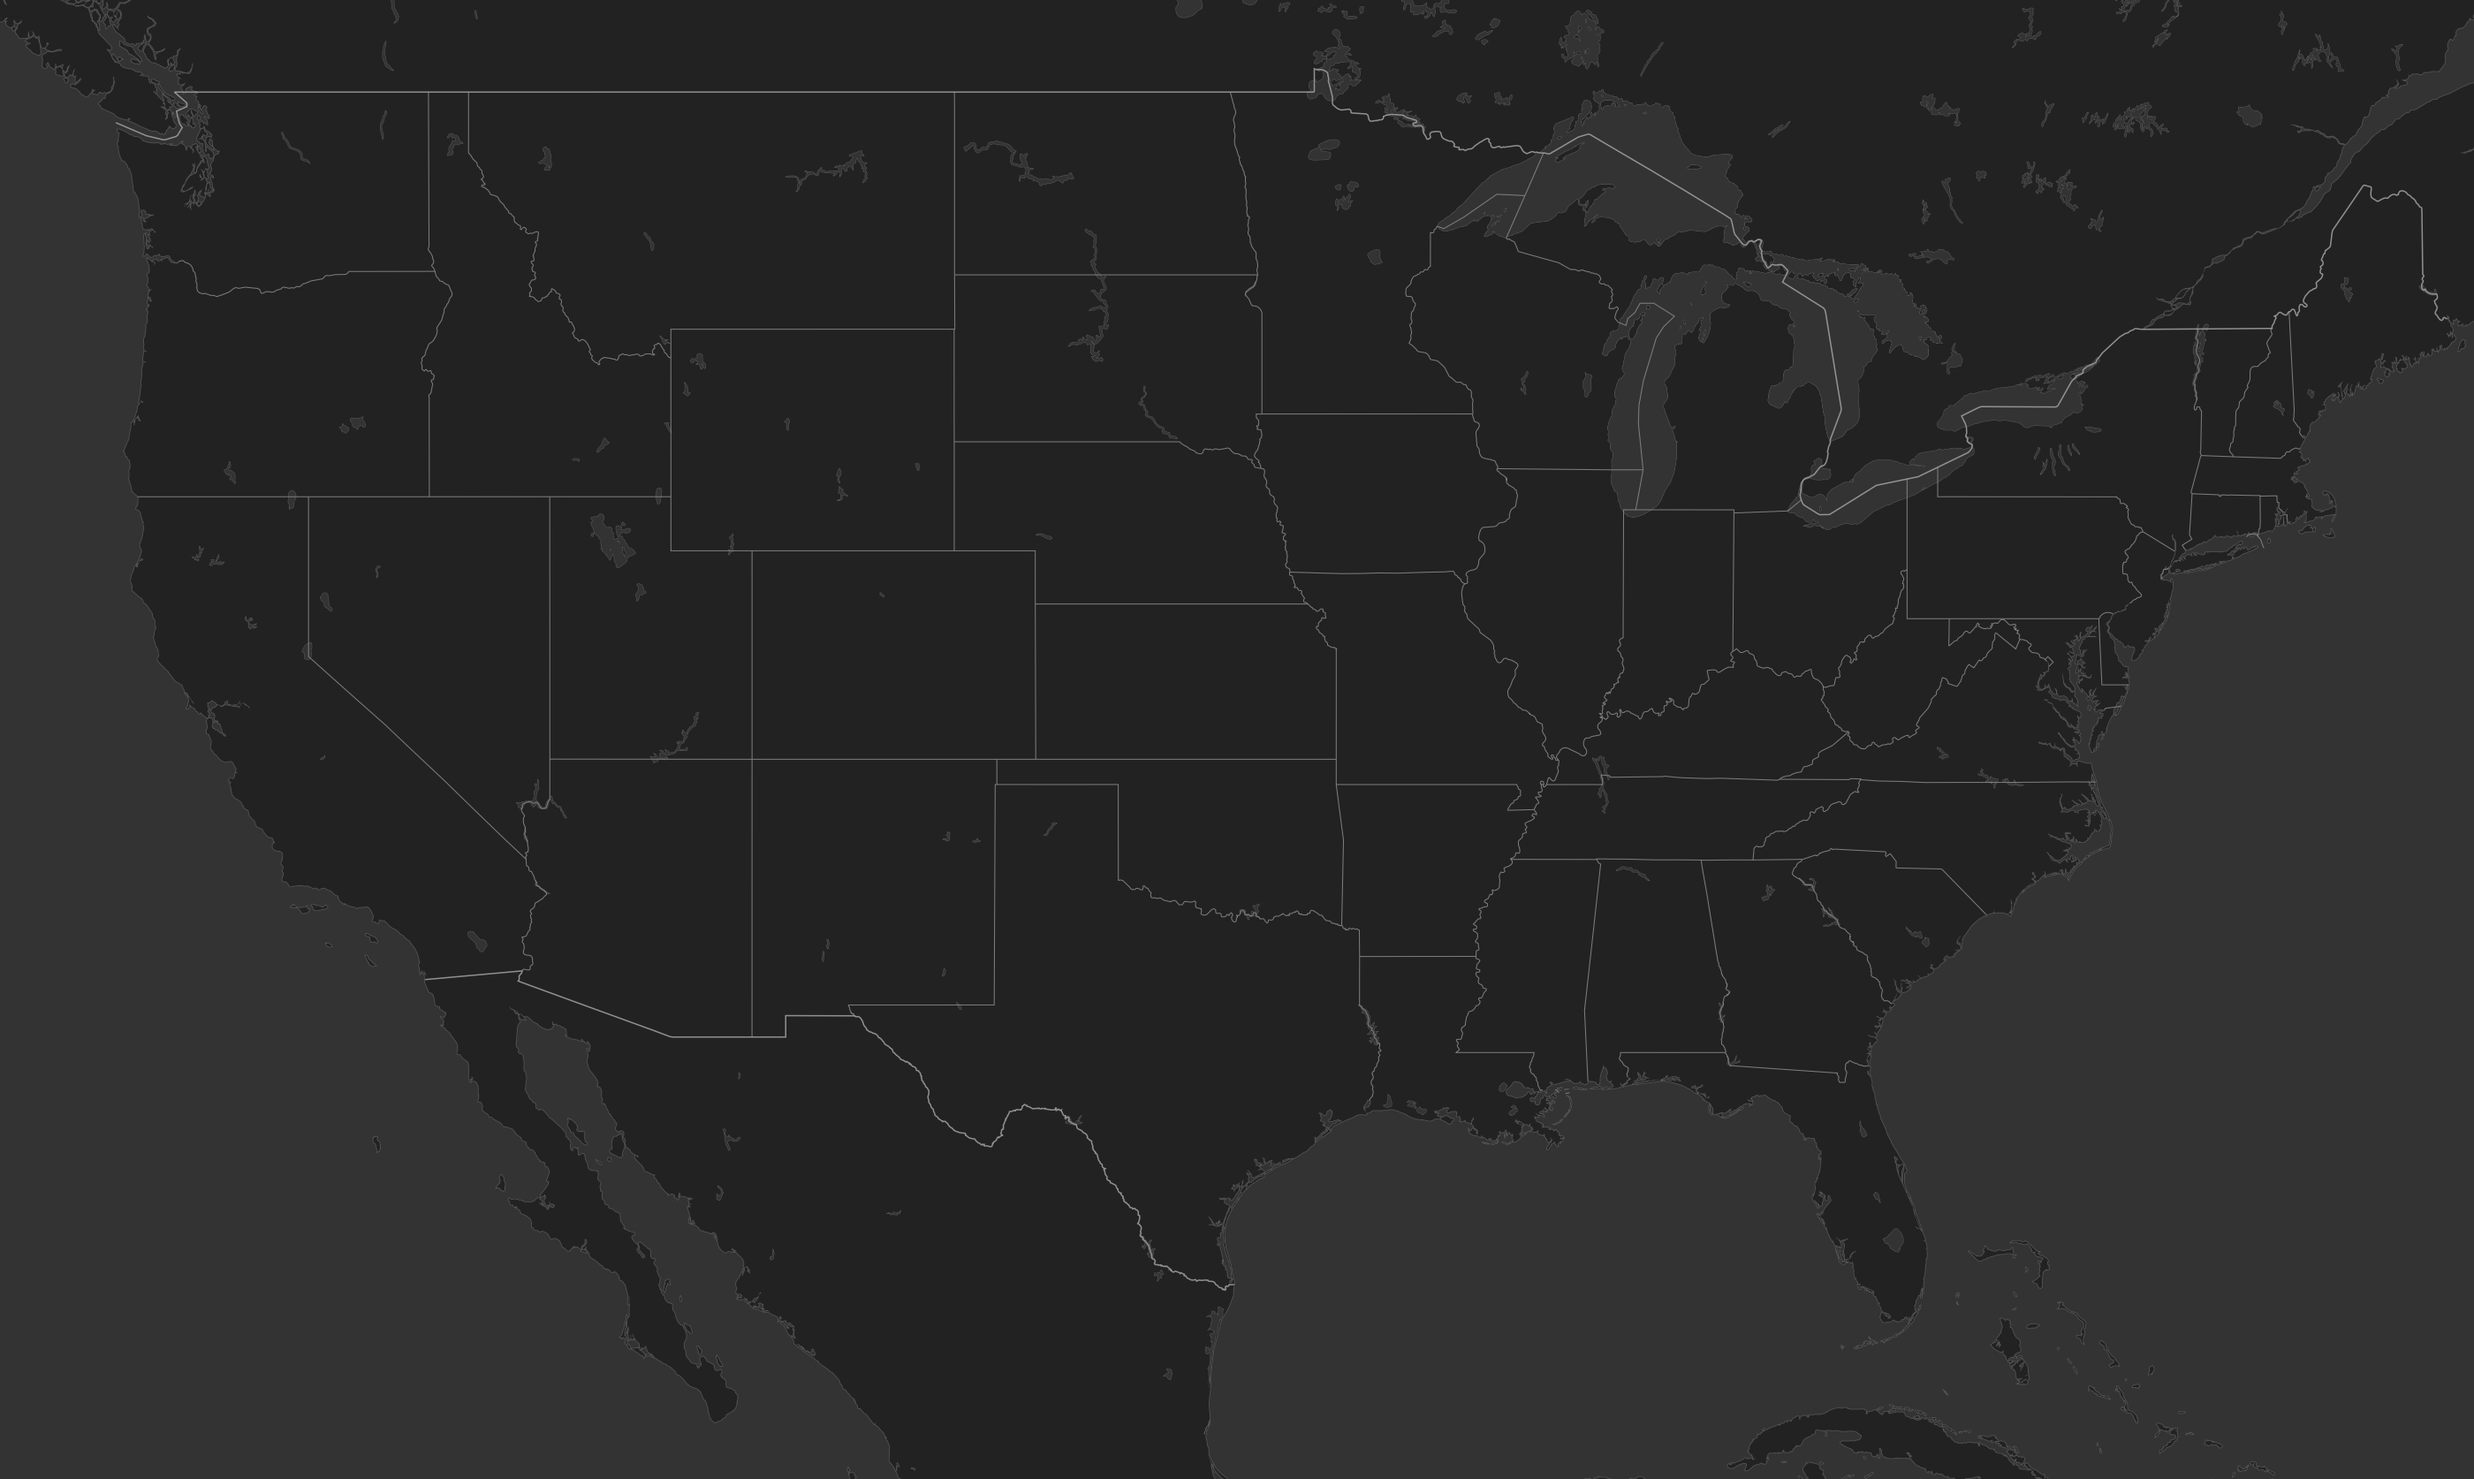
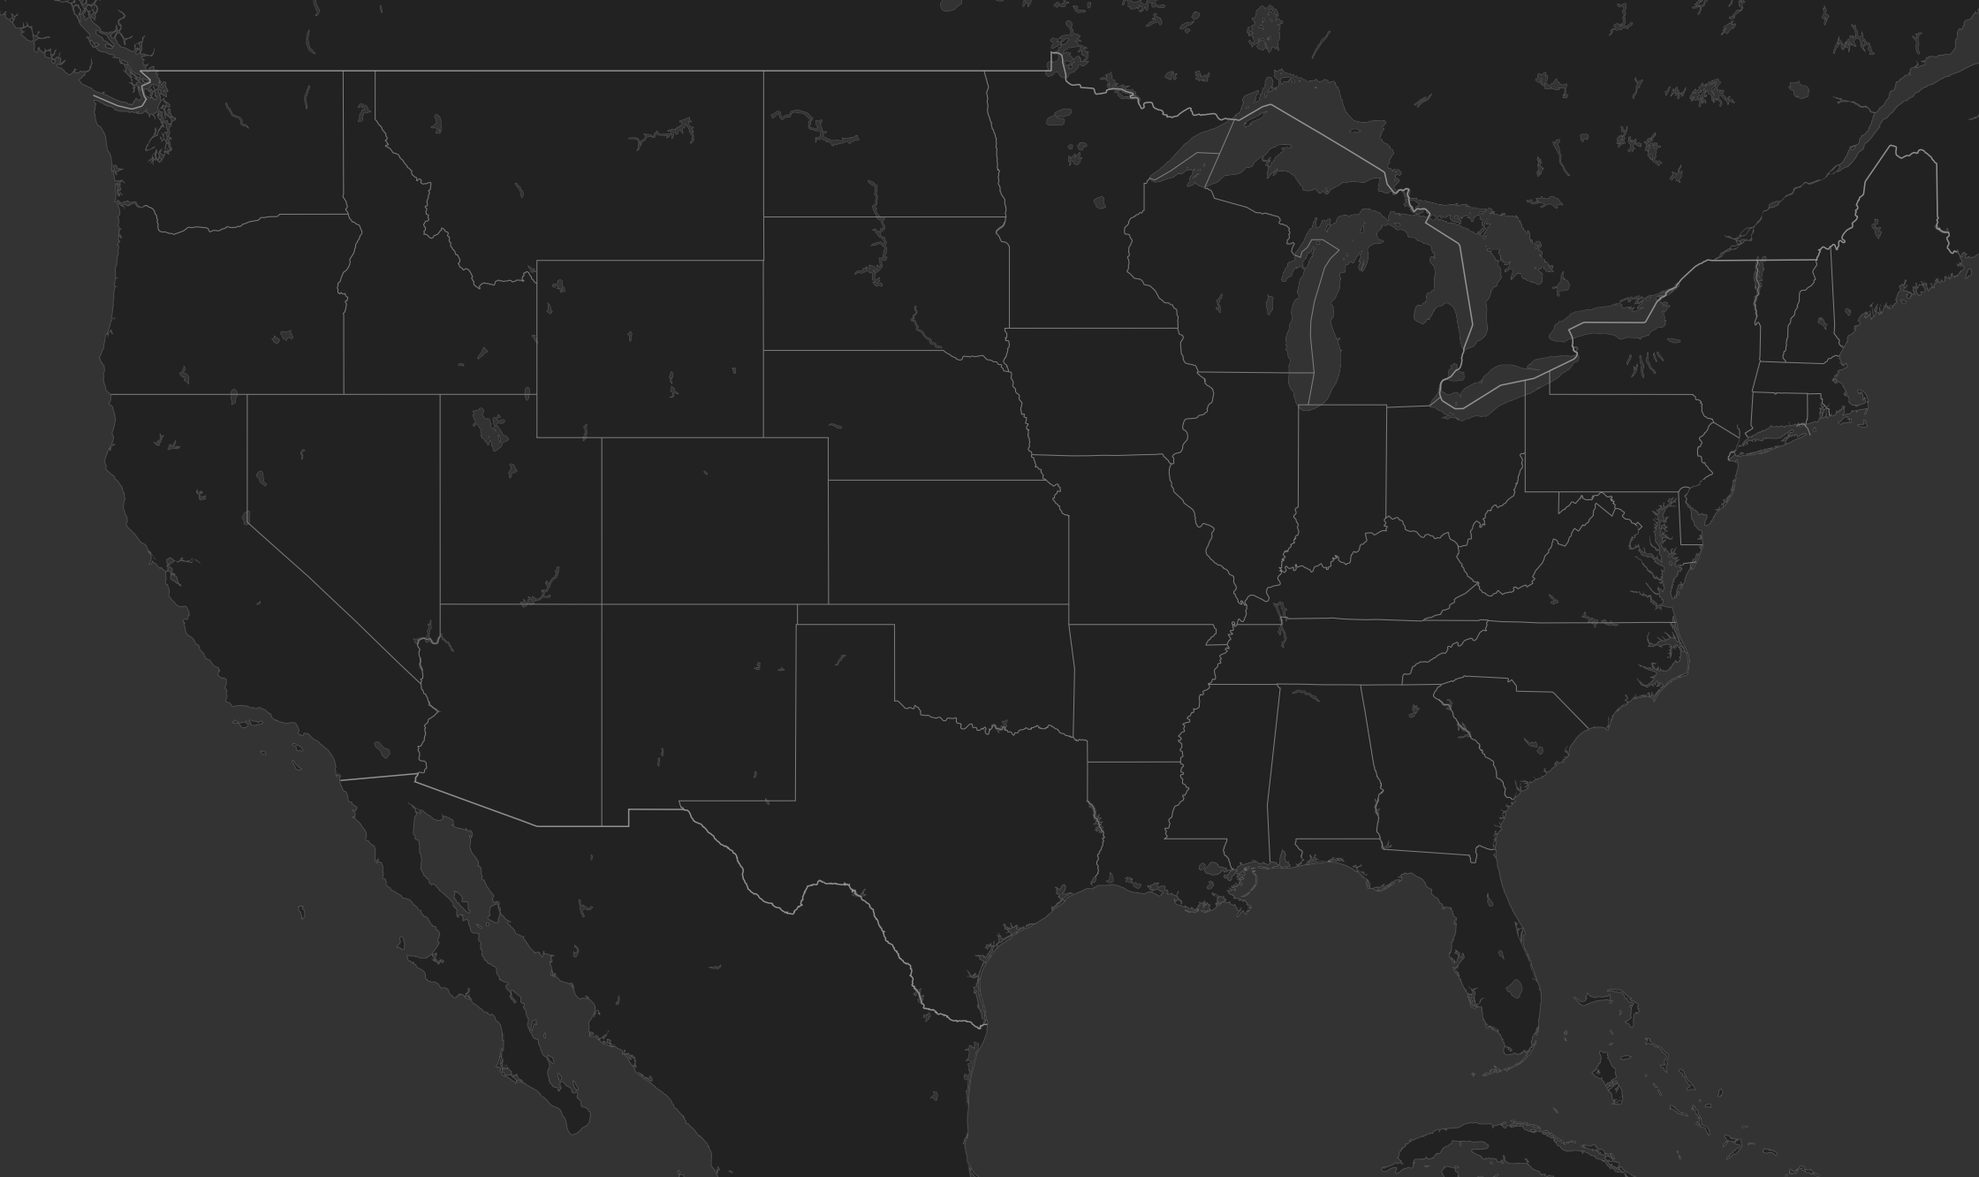
Resize source basemap so no need to resize regions

diff --git a/radar2gif.py b/radar2gif.py
@@ -18,34 +18,37 @@ def radar_to_gif(publish=False, tweet=False):
     Optionally saves to S3 and publishes to twitter
     Source imagery: http://radar.weather.gov/GIS.html"""
 
-    radar = download_images()
+    #radar = download_images()
 
     # Transform Radar
-    #mypath = "gif/source"
-    #onlyfiles = ["gif/source/%s" % f for f in listdir(mypath) if isfile(join(mypath, f)) and f != '.DS_Store']
-    reprojected = [change_projection(image) for image in radar]
-    new_palette = [change_palette(image) for image in reprojected]
-    base_width = [resize_and_save(image) for image in new_palette]
-    radar_and_basemap = [add_basemap(image) for image in base_width]
+    mypath = "gif/new_palette"
+    new_palette = ["gif/new_palette/%s" % f for f in listdir(mypath) if isfile(join(mypath, f)) and f != '.DS_Store']
+    #reprojected = [change_projection(image) for image in radar]
+    #new_palette = [change_palette(image) for image in reprojected]
+    #base_width = [resize_and_save(image) for image in new_palette]
+    #radar_and_basemap = [add_basemap(image) for image in base_width]
 
     # Create a list of gifs to be published
     gifs = []
 
-    ## Get data about all regions
+    # Get data about all regions
     with open('regions.json', 'r') as f:
         regions = json.load(f)
 
     # Loop through regions, creating GIF
-    for region, coordinates in regions['coordinates'][0].items():
-        cropped = [crop(image, coordinates) for image in radar_and_basemap]
-        resized = [resize(image) for image in cropped]
-        #region_with_text = [add_text(image) for image in resized]
-        gif = generate_gif(resized, region)
-        gifs.append(gif)
+    #for region, coordinates in regions['coordinates'][0].items():
+    #    cropped = [crop(image, coordinates) for image in radar_and_basemap]
+    #    resized = [resize(image) for image in cropped]
+    #    #region_with_text = [add_text(image) for image in resized]
+    #    gif = generate_gif(resized, region)
+    #    gifs.append(gif)
 
     # Special case: continental united states does not need to be cropped
+    conus_width = [resize_and_save(image, width=560) for image in new_palette]
+    radar_and_conus = [add_basemap(image, "basemap/Conus-sm.png")
+        for image in conus_width]
     #conus_with_text = [add_text(image) for image in resized_conus]
-    pil_objects = [Image.open(image) for image in radar_and_basemap]
+    pil_objects = [Image.open(image) for image in radar_and_conus]
     gif = generate_gif(pil_objects, 'Conus')
     gifs.append(gif)
 

diff --git a/image_manipulation.py b/image_manipulation.py
@@ -6,9 +6,14 @@ def crop(image_file, coordinates):
 
     print "Cropping %s" % image_file
 
+    # New basemap is 80% of size of previous basemap, so region coordinates
+    # need to be scaled accordingly
+    scaled_coords = [int(i * 0.8) for i in coordinates]
+
     image = Image.open(image_file)
-    cropped = image.crop((coordinates[0], coordinates[1], coordinates[2],
-            coordinates[3]))
+    cropped = image.crop((scaled_coords[0], scaled_coords[1], scaled_coords[2],
+            scaled_coords[3]))
+
     return cropped
 
 
@@ -23,7 +28,7 @@ def resize(image, width=560.0):
     return im
 
 
-def resize_and_save(image, width=2800.0):
+def resize_and_save(image, width=2240.0):
     """Takes a file path, opens in PIL, resizes, converts to RGBA and returns
     a file path"""
 

diff --git a/transform.py b/transform.py
@@ -92,13 +92,12 @@ def change_palette(image):
     return filename
 
 
-def add_basemap(radar):
+def add_basemap(radar, basemap="basemap/Conus.png"):
     """Add Conus basemap underneath radar image"""
 
     print "Adding basemap to %s" % radar
 
     timestamp = radar.split('/')[-1].split('_')[2]
-    basemap = "basemap/Conus.png"
     background = Image.open(basemap)
     foreground = Image.open(radar).convert("RGBA")
     combined = "gif/basemap/%s-bm-%s.png" % (
